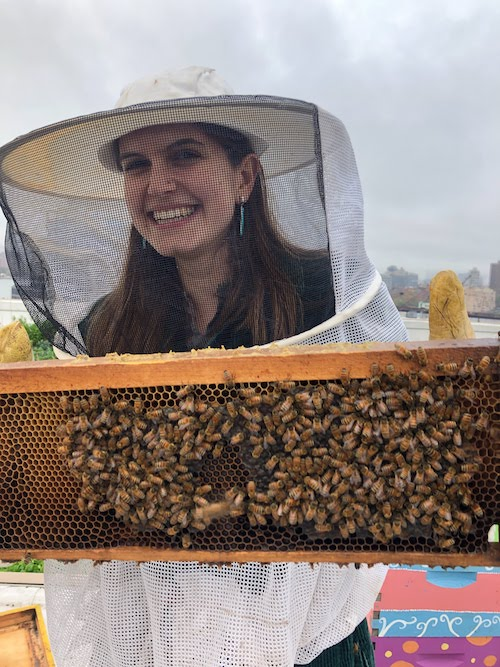
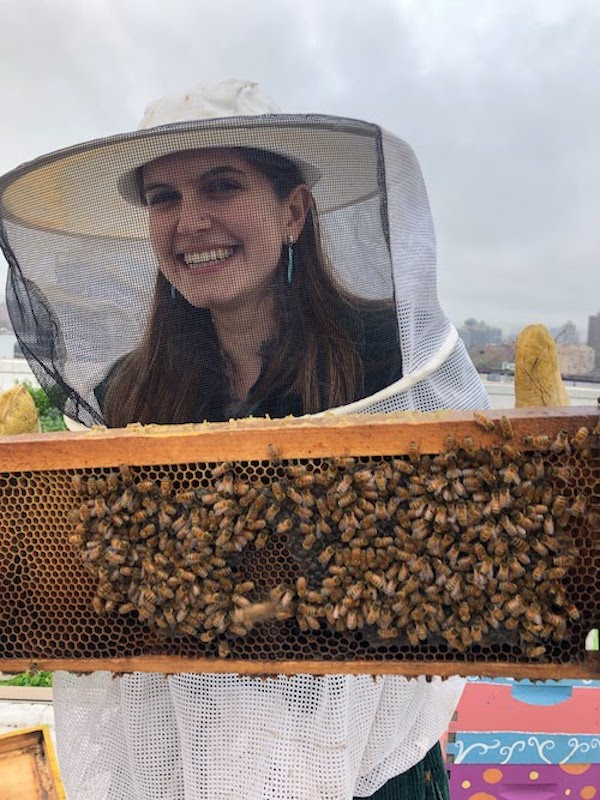
bee asset case change

diff --git a/index.html b/index.html
@@ -53,7 +53,7 @@
     <div class="container-fluid">
       <div class="row" style="padding-top: 6%;">
         <div class="col-sm-4 col-sm-offset-1" id="about">
-          <img src="BEES.JPG" width="318" height="444">
+          <img src="bees.JPG" width="350" height="467">
         </div>
         <div class="col-sm-6">
           <h1>Thanks for visiting!</h1>
